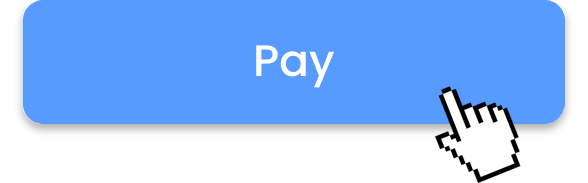
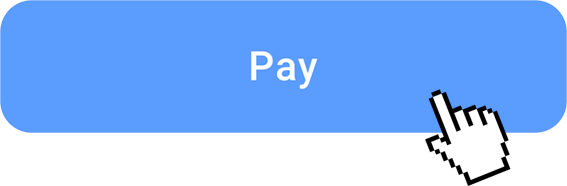
add copy button, and better button image

Changed region(s): [[0.0, 0.0, 1.0, 1.0], [0.4198, 0.2459, 0.5697, 0.4918]]

diff --git a/components/LandingPage/GetStarted.tsx b/components/LandingPage/GetStarted.tsx
@@ -1,7 +1,27 @@
+import { useState } from 'react';
 import Link from 'next/link';
+import Image from 'next/image';
 import style from '/styles/landing.module.css';
+import CopyIcon from '/assets/copy.png';
 
 export default function GetStarted(): JSX.Element {
+  const [isCopied, setIsCopied] = useState(false);
+
+  const handleCopyClick = async (): Promise<void> => {
+    const codeToCopy = `<script src="https://unpkg.com/@paybutton/paybutton/dist/paybutton.js"></script>
+    <div class="paybutton" to="YOUR_ADDRESS_HERE"></div>`;
+
+    try {
+      await navigator.clipboard.writeText(codeToCopy);
+      setIsCopied(true);
+      setTimeout(() => {
+        setIsCopied(false);
+      }, 1000); // Reset the "Copied" state after 2 seconds
+    } catch (error) {
+      console.error('Copy failed:', error);
+    }
+  };
+
   return (
     <div className={style.get_started_ctn}>
       <div className={style.container}>
@@ -10,6 +30,12 @@ export default function GetStarted(): JSX.Element {
           Simply add the following to your website’s HTML, replacing{' '}
           <i>YOUR_ADDRESS_HERE</i> with your eCash address.
         </p>
+        <div className={style.codetopbar}>
+          <div className={style.copybutton} onClick={handleCopyClick}>
+            <Image src={CopyIcon} alt="copy" />
+            {isCopied ? 'Copied!' : 'Copy'}
+          </div>
+        </div>
         <pre>
           <code>
             &lt;script

diff --git a/styles/landing.module.css b/styles/landing.module.css
@@ -451,7 +451,46 @@ body[data-theme='dark'] .wave2 {
   text-align: left;
   margin: auto;
   font-size: 14px;
+  background-color: #231f20;
+  border: none;
+  border-radius: 0 0 5px 5px;
   margin-bottom: 60px;
+}
+
+.get_started_ctn code {
+  color: #fff;
+}
+
+.codetopbar {
+  background-color: #595657;
+  display: flex;
+  justify-content: flex-end;
+  padding: 6px 15px;
+  max-width: 1000px;
+  margin: auto;
+  border-radius: 5px 5px 0 0;
+}
+
+.codetopbar img {
+  filter: brightness(100);
+  width: 12px;
+  margin-right: 4px;
+}
+
+.copybutton {
+  color: #fff;
+  font-size: 14px;
+  display: flex;
+  align-items: center;
+  cursor: pointer;
+}
+
+.copybutton:hover {
+  color: var(--accent-color);
+}
+
+.copybutton:hover img {
+  filter: none;
 }
 
 body[data-theme='dark'] .get_started_ctn h2,
